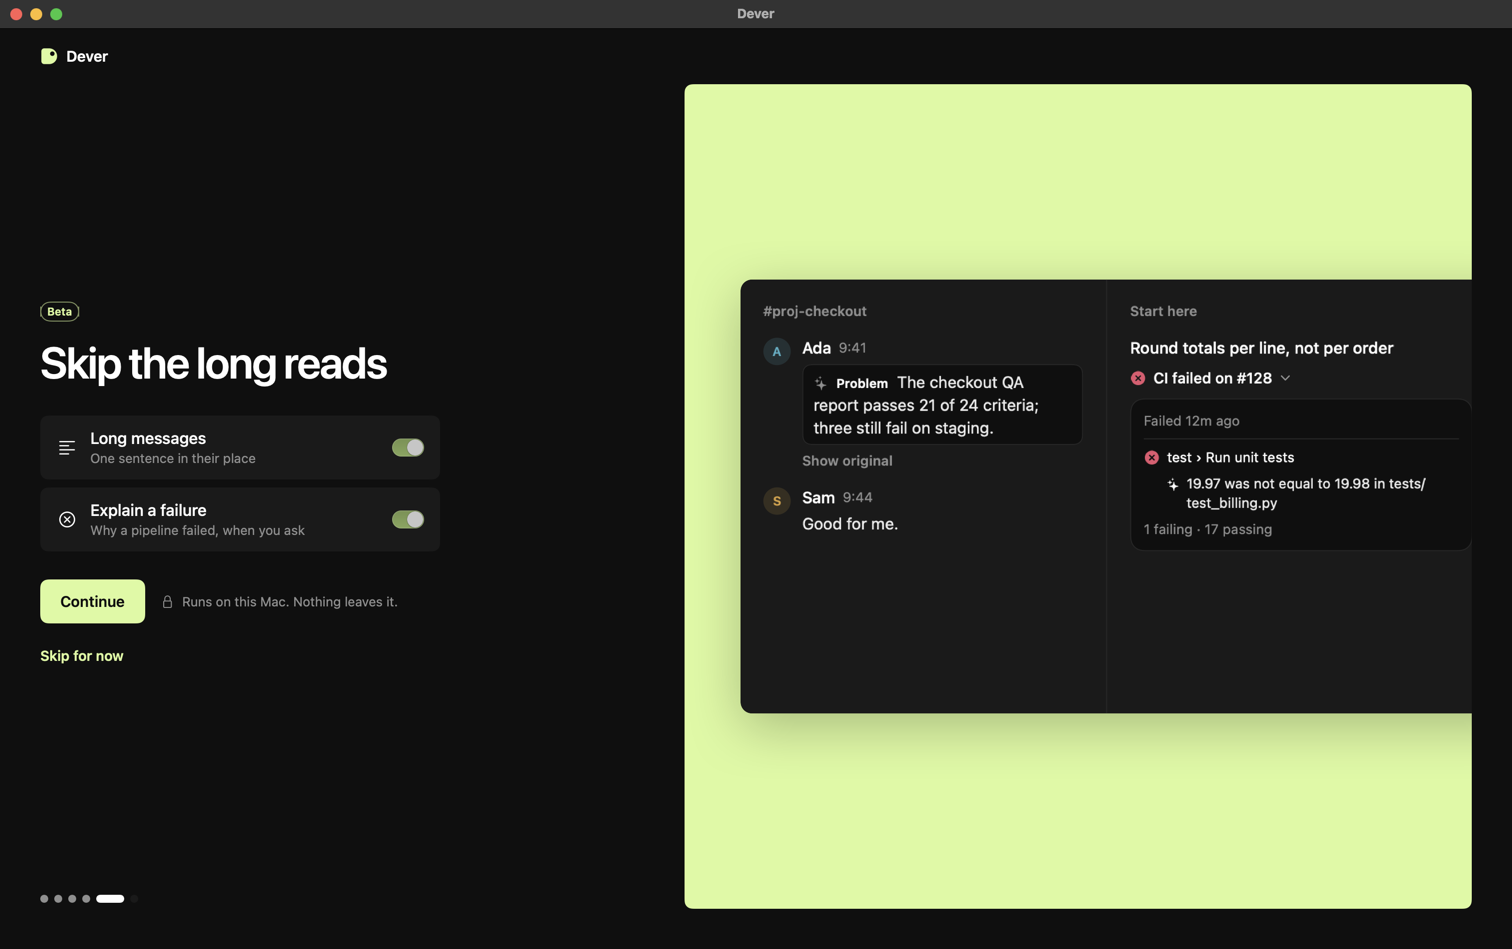
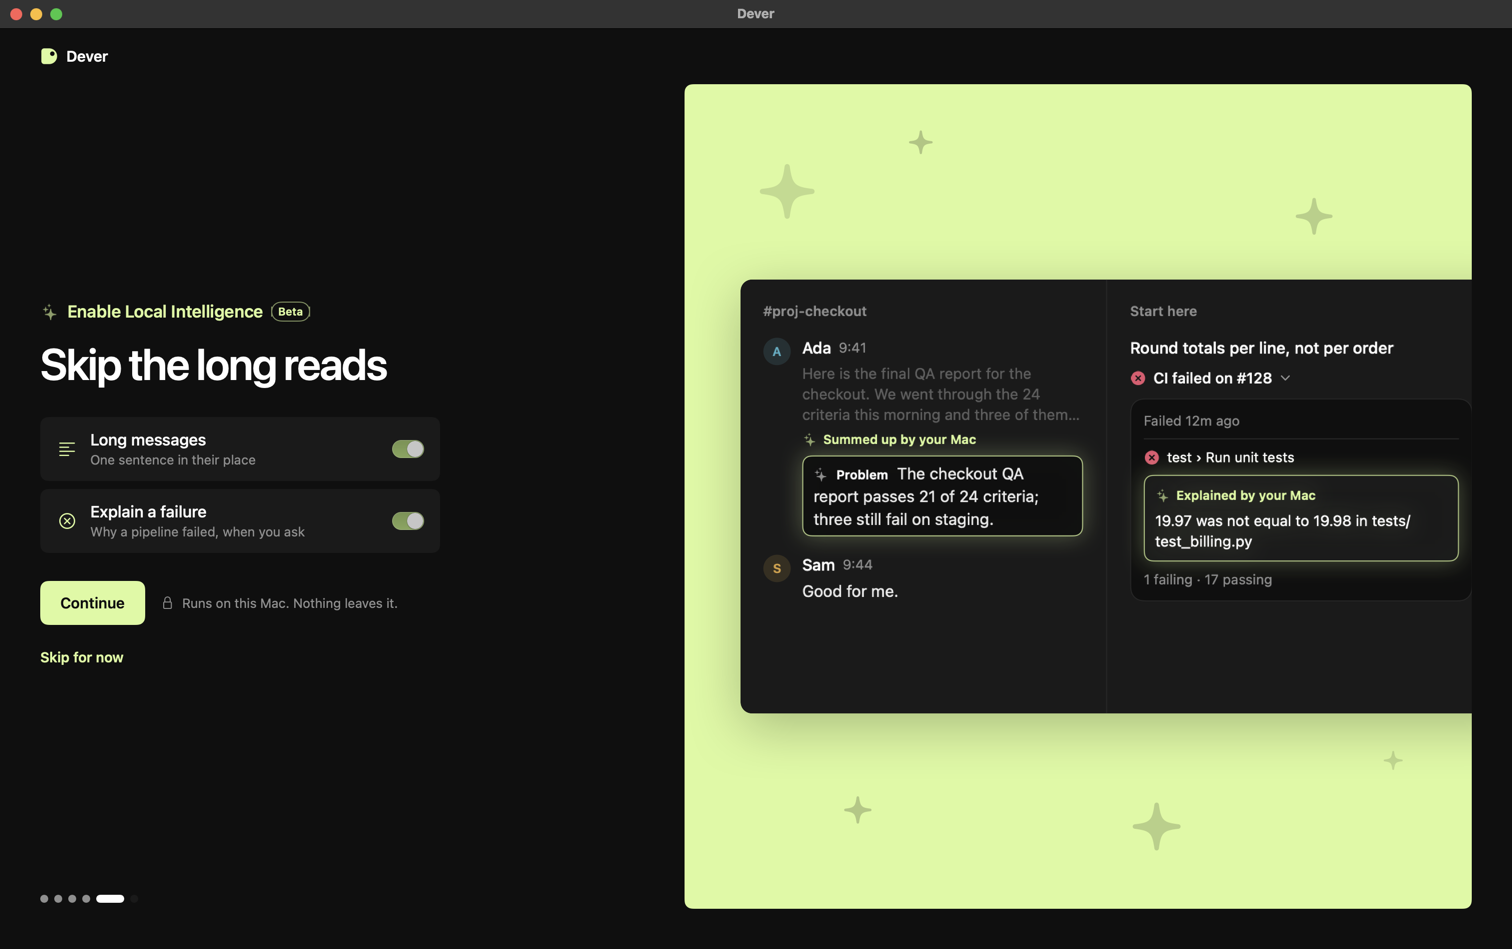
Onboarding: the Intelligence stage says its name, and what the Mac wrote is lit

diff --git a/Sources/Dever/Views/OnboardingIntelligence.swift b/Sources/Dever/Views/OnboardingIntelligence.swift
@@ -25,6 +25,9 @@ enum OnboardingIntelligence {
         feature == .explainFailure ? "xmark.circle" : "text.alignleft"
     }
 
+    /// What the stage asks, above its headline.
+    static let name = "Enable Local Intelligence"
+
     /// The promise of rule 3, in the app's own words.
     static let privacy = "Runs on this Mac. Nothing leaves it."
 
@@ -43,7 +46,16 @@ struct IntelligenceControls: View {
     var body: some View {
         VStack(alignment: .leading, spacing: 28) {
             VStack(alignment: .leading, spacing: 14) {
-                StageTag(kind: .beta)
+                // What is being asked, by name, before the benefit: the sparkle is the mark every
+                // generated text carries in the app, here lit and alive.
+                HStack(spacing: 8) {
+                    Image(systemName: "sparkles").font(.system(size: 17, weight: .semibold))
+                        .foregroundStyle(Soot.lime).modifier(Twinkle())
+                        .accessibilityHidden(true)
+                    Text(OnboardingIntelligence.name).font(.system(size: 17, weight: .semibold))
+                        .foregroundStyle(Soot.lime)
+                    StageTag(kind: .beta)
+                }
                 Headline(text: "Skip the long reads")
             }
             Group {
@@ -84,7 +96,7 @@ private struct IntelligenceChoice: View {
         Button { IntelligencePreferences.set(feature, on: !on) } label: {
             HStack(spacing: 12) {
                 Image(systemName: OnboardingIntelligence.symbol(feature)).font(.system(size: 16))
-                    .foregroundStyle(Soot.ink).frame(width: 22)
+                    .foregroundStyle(on ? Soot.lime : Soot.muted).frame(width: 22)
                 VStack(alignment: .leading, spacing: 2) {
                     Text(feature.title).font(.system(size: 16, weight: .medium)).foregroundStyle(Soot.ink)
                     Text(OnboardingIntelligence.detail(feature)).font(.system(size: 13)).foregroundStyle(Soot.muted)
@@ -168,8 +180,11 @@ struct IntelligencePicture: View {
             Text("#proj-checkout").font(Theme.smallStrong).foregroundStyle(Soot.muted)
             message(initial: "A", tint: Theme.chart1, name: "Ada", time: "9:41") {
                 if summaries {
-                    SummarisedMessage(text: Self.summary)
-                    Text("Show original").font(.system(size: 12, weight: .semibold)).foregroundStyle(Soot.muted)
+                    // Before and after: the message as it came, dimmed, then what the Mac wrote of it.
+                    Text(Self.long).font(.system(size: 13)).foregroundStyle(Soot.muted.opacity(0.6))
+                        .lineSpacing(2).lineLimit(3)
+                    written("Summed up by your Mac")
+                    SummarisedMessage(text: Self.summary).modifier(Lit())
                 } else {
                     Text(Self.long).font(.system(size: 14)).foregroundStyle(Soot.ink.opacity(0.92))
                         .lineSpacing(3).lineLimit(4)
@@ -201,6 +216,15 @@ struct IntelligencePicture: View {
         }
     }
 
+    /// Says which part of the picture the Mac wrote: the sparkle, lit, and a few words.
+    private func written(_ words: String) -> some View {
+        HStack(spacing: 5) {
+            Image(systemName: "sparkles").font(.system(size: 12, weight: .semibold)).modifier(Twinkle())
+            Text(words).font(.system(size: 11, weight: .semibold))
+        }
+        .foregroundStyle(Soot.lime)
+    }
+
     private var pipeline: some View {
         VStack(alignment: .leading, spacing: 10) {
             Text("Start here").font(Theme.smallStrong).foregroundStyle(Soot.muted).padding(.bottom, 6)
@@ -220,13 +244,15 @@ struct IntelligencePicture: View {
                         PipelineGlyph(state: .failing)
                         Text("test › Run unit tests").font(.system(size: 12)).foregroundStyle(Soot.ink)
                     }
-                    HStack(alignment: .top, spacing: 6) {
-                        Image(systemName: "sparkles").font(.system(size: 10, weight: .semibold))
-                            .foregroundStyle(Soot.muted).frame(height: 16)
-                        Text(Self.reason).font(.system(size: 12)).foregroundStyle(Soot.ink.opacity(0.92)).lineSpacing(2)
+                    VStack(alignment: .leading, spacing: 6) {
+                        written("Explained by your Mac")
+                        Text(Self.reason).font(.system(size: 13)).foregroundStyle(Soot.ink).lineSpacing(2)
                             .fixedSize(horizontal: false, vertical: true)
                     }
-                    .padding(.leading, 20)
+                    .padding(10)
+                    .frame(maxWidth: .infinity, alignment: .leading)
+                    .background(Soot.surface, in: RoundedRectangle(cornerRadius: 8))
+                    .modifier(Lit())
                     Text("1 failing · 17 passing").font(.system(size: 12)).foregroundStyle(Soot.muted)
                 }
                 .padding(12)
@@ -239,5 +265,56 @@ struct IntelligencePicture: View {
         }
         .padding(20)
         .frame(maxWidth: .infinity, maxHeight: .infinity, alignment: .topLeading)
+    }
+}
+
+// MARK: - Sparkles
+
+/// A sparkle that breathes: it dims and shrinks a little, then comes back, every 2.4 s. Still
+/// and full under Reduce Motion. Computed from the clock, like `Skeleton`, so it animates
+/// nothing around it.
+struct Twinkle: ViewModifier {
+    /// Where in its cycle this one starts, 0 to 1, so that neighbours do not pulse together.
+    var phase: Double = 0
+    @Environment(\.accessibilityReduceMotion) private var reduceMotion
+
+    func body(content: Content) -> some View {
+        TimelineView(.animation(minimumInterval: 1.0 / 30, paused: reduceMotion)) { context in
+            let t = context.date.timeIntervalSinceReferenceDate / 2.4 + phase
+            let wave = reduceMotion ? 1 : 0.5 + 0.5 * cos(t * 2 * .pi)
+            content.opacity(0.6 + 0.4 * wave).scaleEffect(0.86 + 0.14 * wave)
+        }
+    }
+}
+
+/// What the Mac wrote, in the picture: a lime edge and a soft lime light around it.
+private struct Lit: ViewModifier {
+    func body(content: Content) -> some View {
+        content
+            .overlay(RoundedRectangle(cornerRadius: 8).strokeBorder(Soot.lime.opacity(0.7)))
+            .shadow(color: Soot.lime.opacity(0.28), radius: 10)
+    }
+}
+
+/// Sparkles on the lime stage, around the picture: large, in the ground's ink, each on its own
+/// beat. Decoration only.
+struct SparkleField: View {
+    private static let marks: [(x: CGFloat, y: CGFloat, size: CGFloat, phase: Double)] = [
+        (0.13, 0.13, 64, 0), (0.30, 0.07, 24, 0.4), (0.80, 0.16, 40, 0.7),
+        (0.60, 0.90, 52, 0.2), (0.22, 0.88, 28, 0.55), (0.90, 0.82, 22, 0.85),
+    ]
+
+    var body: some View {
+        GeometryReader { geo in
+            ForEach(Self.marks.indices, id: \.self) { index in
+                let mark = Self.marks[index]
+                Image(systemName: "sparkle").font(.system(size: mark.size, weight: .semibold))
+                    .foregroundStyle(Soot.limeInk.opacity(0.22))
+                    .modifier(Twinkle(phase: mark.phase))
+                    .position(x: geo.size.width * mark.x, y: geo.size.height * mark.y)
+            }
+        }
+        .allowsHitTesting(false)
+        .accessibilityHidden(true)
     }
 }

diff --git a/Sources/Dever/Views/OnboardingView.swift b/Sources/Dever/Views/OnboardingView.swift
@@ -554,6 +554,7 @@ private struct StageView: View {
     var body: some View {
         ZStack {
             RoundedRectangle(cornerRadius: Soot.radius).fill(Soot.lime)
+            if stage == .intelligence { SparkleField().transition(.opacity) }
             GeometryReader { geo in
                 // The crop is drawn at true size, then scaled to fill most of the stage's height.
                 // Fit the height, and the width up to the GitHub column (the right edge may crop).

diff --git a/docs/on-device-ai.md b/docs/on-device-ai.md
@@ -392,12 +392,19 @@ Summaries
 - **Onboarding** has an Intelligence stage (`OnboardingIntelligence.swift`), after the channel names and
   before the first project: the tools are connected and described by then, and the projects are the way
   out of onboarding. It replaces the quiet line the Connect stage carried while there was nothing to choose.
-  - **Left:** the word Beta (its tooltip gives the meaning), the headline "Skip the long reads", one row
+  - **Left:** above the headline, what is asked, by name: a lit sparkle, "Enable Local Intelligence" in
+    lime and the word Beta (its tooltip gives the meaning). A first form had the word Beta alone there,
+    and the user found the screen did not say what it was about. Then the headline "Skip the long reads", one row
     per built use that has a picture ("Long messages", "Explain a failure"), each with one short line and
     a switch, then Continue beside the promise of rule 3: "Runs on this Mac. Nothing leaves it." The
     whole row is the switch; VoiceOver hears the title, the line and On or Off.
   - **Right:** on the lime stage, in the place of the window crop, a made-up project page: a long message
-    of the rail as its summary, a failed pipeline with its card and the sentence behind the sparkle. The
+    of the rail as its summary, a failed pipeline with its card and the sentence behind the sparkle. What
+    the Mac wrote is lit, which it never is in the app (section 4): a lime edge and a soft lime light,
+    and above it a lime sparkle with "Summed up by your Mac" or "Explained by your Mac"; the message
+    as it came stays above its summary, dimmed, so the picture reads as before and after. Large
+    sparkles sit on the lime stage around it. Every sparkle of the stage breathes on a 2.4 s beat
+    (`Twinkle`), still under Reduce Motion. The
     picture answers to the switches: off, the message is cut at four lines with "Show more" and the
     failed state is plain, with no card. It is a picture: nothing in it is clickable or read by the model.
   - **One source of truth:** the switches are the keys of Settings › Intelligence
